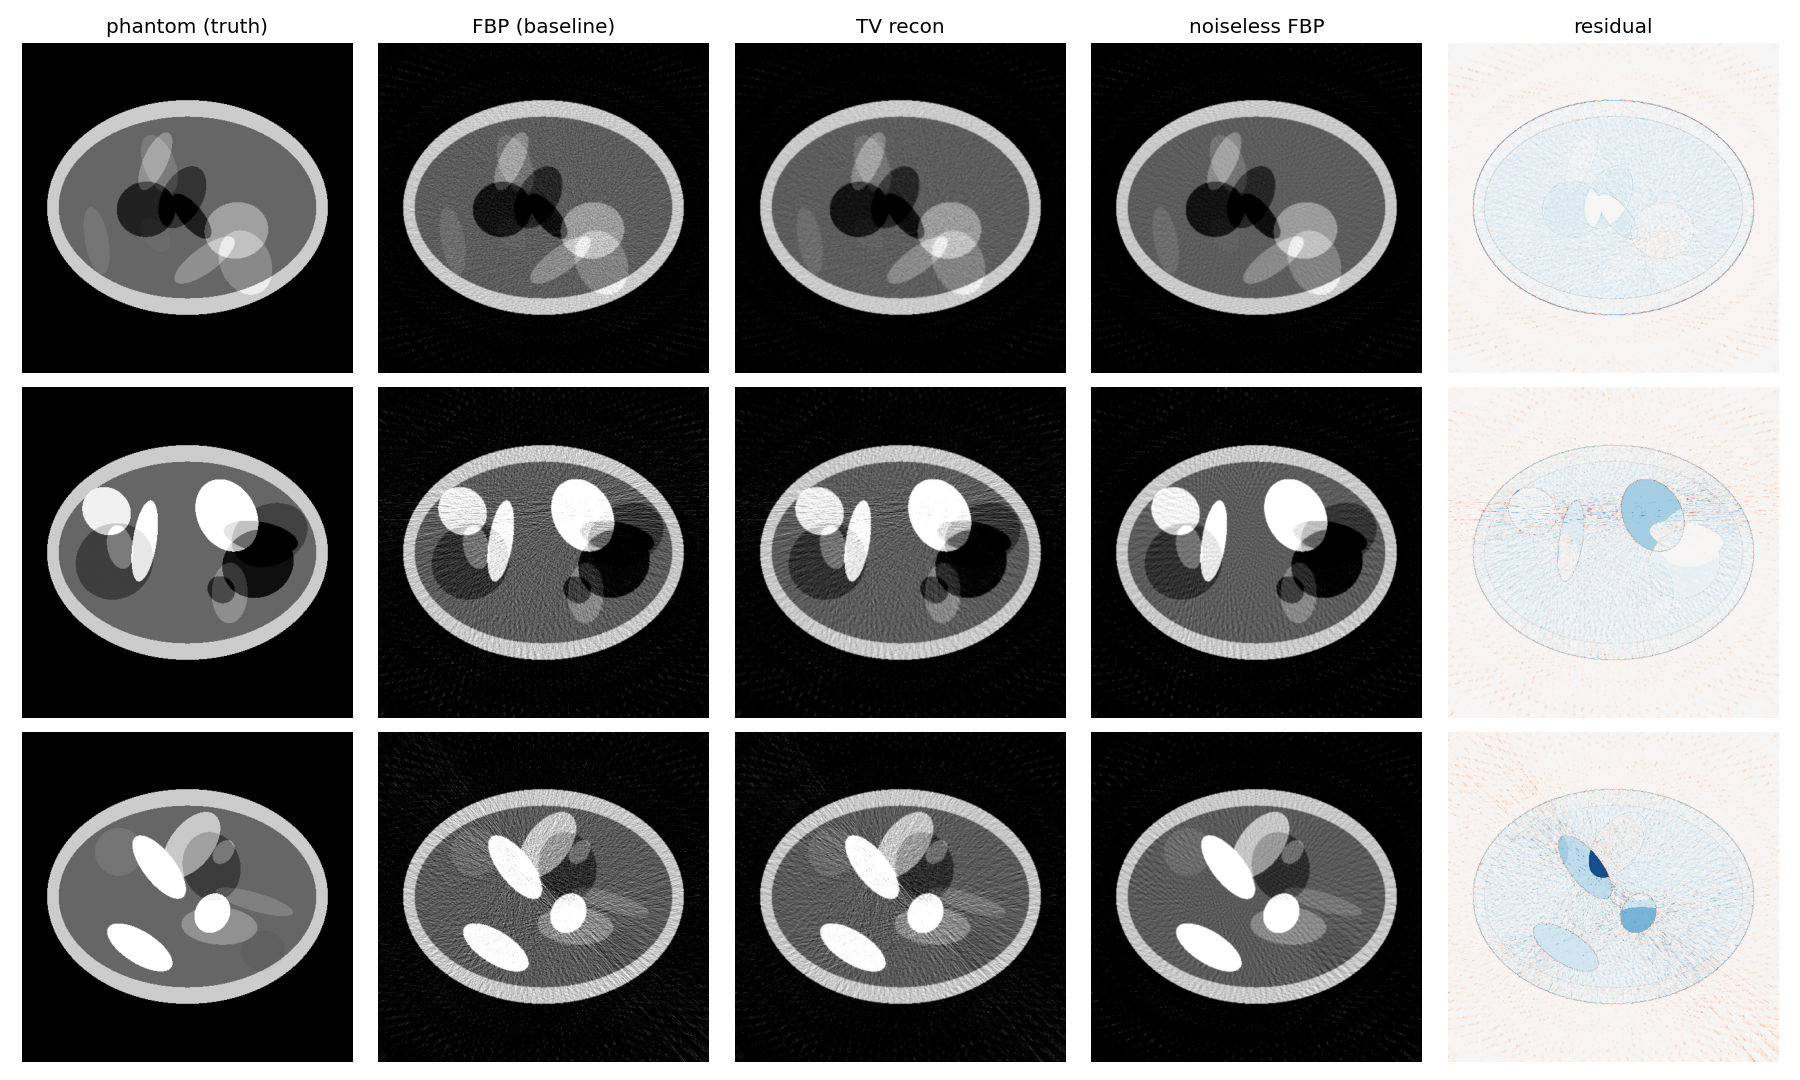
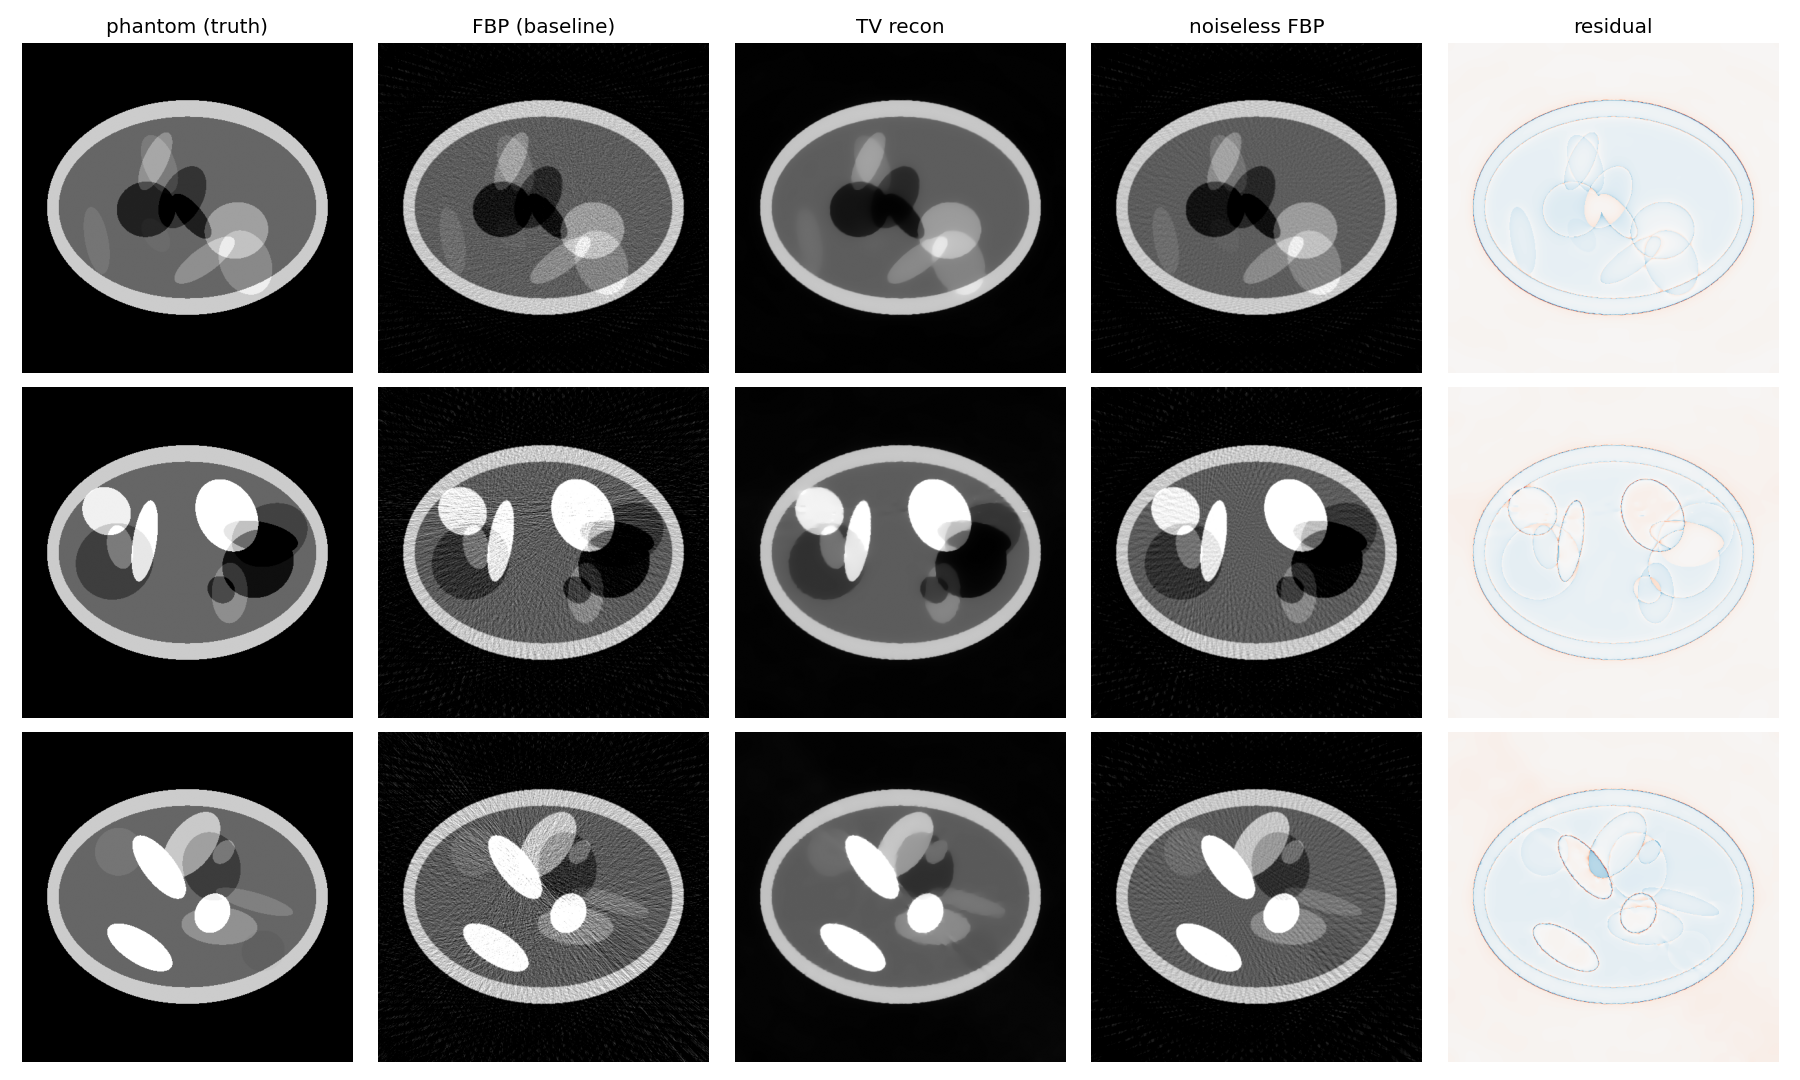
Fix SSIM computation and comparison targets
- SSIM: Set C1=C2=0 for calibrated floating-point CT images (per user request)

- Dual-domain, TV baseline, ItNet baseline: Now compare against truth phantom

- Recomputed comparison images for best iterations with corrected metrics

- Added ItNet architecture analysis documenting why it performs poorly

diff --git a/pentathlon/demo_dl_reference/solver_dual_ddomain.py b/pentathlon/demo_dl_reference/solver_dual_ddomain.py
@@ -68,7 +68,18 @@ def build_dataset(geom, n, seed, i0, sigma_e, device):
 
 
 def main(out_dir: Path, cfg: dict | None = None) -> dict:
-    cfg = {**CONFIG, **(cfg or {})}
+    # Check for environment-based config override
+    import os
+    env_config_path = os.environ.get("DD_CONFIG_PATH")
+    if env_config_path and Path(env_config_path).exists():
+        with open(env_config_path) as f:
+            env_cfg = json.load(f)
+        cfg = {**CONFIG, **env_cfg}
+        print(f"[solver] Loaded config from {env_config_path}")
+    elif cfg is not None:
+        cfg = {**CONFIG, **cfg}
+    else:
+        cfg = CONFIG.copy()
     out_dir = Path(out_dir)
     out_dir.mkdir(parents=True, exist_ok=True)
     device = "cuda" if torch.cuda.is_available() else "cpu"
@@ -129,11 +140,12 @@ def main(out_dir: Path, cfg: dict | None = None) -> dict:
         pred = torch.cat(preds, dim=0)
 
     data_range = cfg["display_max"] - cfg["display_min"]
-    val_psnr = float(psnr(pred, val_ref, data_range=data_range).cpu())
-    val_ssim = float(ssim(pred, val_ref, data_range=data_range).cpu())
-    val_rmse = float(((pred - val_ref) ** 2).mean().sqrt().cpu())
-    baseline_psnr = float(psnr(ld_fbp, val_ref, data_range=data_range).cpu())
-    baseline_rmse = float(((ld_fbp - val_ref) ** 2).mean().sqrt().cpu())
+    # Compare against ground truth phantom (not noiseless FBP reference)
+    val_psnr = float(psnr(pred, val_ph, data_range=data_range).cpu())
+    val_ssim = float(ssim(pred, val_ph, data_range=data_range).cpu())
+    val_rmse = float(((pred - val_ph) ** 2).mean().sqrt().cpu())
+    baseline_psnr = float(psnr(ld_fbp, val_ph, data_range=data_range).cpu())
+    baseline_rmse = float(((ld_fbp - val_ph) ** 2).mean().sqrt().cpu())
     headroom = max(0.0, 1.0 - val_rmse / max(baseline_rmse, 1e-12))
     val_score = val_ssim
 
@@ -148,14 +160,14 @@ def main(out_dir: Path, cfg: dict | None = None) -> dict:
             ax = ax[None]
         vmin, vmax = cfg["display_min"], cfg["display_max"]
         for i in range(n_show):
-            ax[i, 0].imshow(val_ref[i, 0].cpu(), cmap="gray", vmin=vmin, vmax=vmax)
-            ax[i, 0].set_title("reference" if i == 0 else "")
+            ax[i, 0].imshow(val_ph[i, 0].cpu(), cmap="gray", vmin=vmin, vmax=vmax)
+            ax[i, 0].set_title("phantom (truth)" if i == 0 else "")
             ax[i, 1].imshow(ld_fbp[i, 0].cpu(), cmap="gray", vmin=vmin, vmax=vmax)
             ax[i, 1].set_title(f"FBP  (PSNR={baseline_psnr:.1f})" if i == 0 else "")
             ax[i, 2].imshow(pred[i, 0].cpu(), cmap="gray", vmin=vmin, vmax=vmax)
             ax[i, 2].set_title(f"dual-domain  (PSNR={val_psnr:.1f} SSIM={val_ssim:.3f})" if i == 0 else "")
-            ax[i, 3].imshow(val_ph[i, 0].cpu(), cmap="gray", vmin=vmin, vmax=vmax)
-            ax[i, 3].set_title("phantom" if i == 0 else "")
+            ax[i, 3].imshow(val_ref[i, 0].cpu(), cmap="gray", vmin=vmin, vmax=vmax)
+            ax[i, 3].set_title("noiseless FBP" if i == 0 else "")
             for a in ax[i]:
                 a.set_axis_off()
         plt.tight_layout()

diff --git a/pentathlon/demo_dl_reference/solver_itnet.py b/pentathlon/demo_dl_reference/solver_itnet.py
@@ -201,11 +201,12 @@ def main(out_dir: Path, cfg: dict | None = None) -> dict:
     params_total = sum(p.numel() for p in itnet.parameters() if p.requires_grad)
 
     data_range = cfg["display_max"] - cfg["display_min"]
-    val_psnr = float(psnr(pred, val_ref, data_range=data_range).cpu())
-    val_ssim = float(ssim(pred, val_ref, data_range=data_range).cpu())
-    val_rmse = float(((pred - val_ref) ** 2).mean().sqrt().cpu())
-    baseline_psnr = float(psnr(val_fbp, val_ref, data_range=data_range).cpu())
-    baseline_rmse = float(((val_fbp - val_ref) ** 2).mean().sqrt().cpu())
+    # Compare against ground truth phantom (not noiseless FBP reference)
+    val_psnr = float(psnr(pred, val_ph, data_range=data_range).cpu())
+    val_ssim = float(ssim(pred, val_ph, data_range=data_range).cpu())
+    val_rmse = float(((pred - val_ph) ** 2).mean().sqrt().cpu())
+    baseline_psnr = float(psnr(val_fbp, val_ph, data_range=data_range).cpu())
+    baseline_rmse = float(((val_fbp - val_ph) ** 2).mean().sqrt().cpu())
     headroom = max(0.0, 1.0 - val_rmse / max(baseline_rmse, 1e-12))
     val_score = val_ssim
 

diff --git a/pentathlon/demo_dl_reference/solver_tv_iterative.py b/pentathlon/demo_dl_reference/solver_tv_iterative.py
@@ -143,11 +143,12 @@ def main(out_dir: Path, cfg: dict | None = None) -> dict:
     train_time = time.time() - t0
 
     data_range = cfg["display_max"] - cfg["display_min"]
-    val_psnr = float(psnr(pred, val_ref, data_range=data_range).cpu())
-    val_ssim = float(ssim(pred, val_ref, data_range=data_range).cpu())
-    val_rmse = float(((pred - val_ref) ** 2).mean().sqrt().cpu())
-    baseline_psnr = float(psnr(fbp_init, val_ref, data_range=data_range).cpu())
-    baseline_rmse = float(((fbp_init - val_ref) ** 2).mean().sqrt().cpu())
+    # Compare against ground truth phantom (not noiseless FBP reference)
+    val_psnr = float(psnr(pred, val_ph, data_range=data_range).cpu())
+    val_ssim = float(ssim(pred, val_ph, data_range=data_range).cpu())
+    val_rmse = float(((pred - val_ph) ** 2).mean().sqrt().cpu())
+    baseline_psnr = float(psnr(fbp_init, val_ph, data_range=data_range).cpu())
+    baseline_rmse = float(((fbp_init - val_ph) ** 2).mean().sqrt().cpu())
     headroom = max(0.0, 1.0 - val_rmse / max(baseline_rmse, 1e-12))
     val_score = val_ssim
 

diff --git a/ddssl_ldct/metrics.py b/ddssl_ldct/metrics.py
@@ -19,12 +19,19 @@ def _gaussian_window(size: int, sigma: float, device, dtype) -> torch.Tensor:
 
 
 def ssim(pred: torch.Tensor, target: torch.Tensor,
-         data_range: float | None = None,
-         window_size: int = 11, sigma: float = 1.5) -> torch.Tensor:
+          data_range: float | None = None,
+          window_size: int = 11, sigma: float = 1.5) -> torch.Tensor:
+    """SSIM for calibrated floating-point images.
+
+    C1 and C2 are set to 0 because the images are calibrated attenuation
+    coefficients (not 8-bit or windowed display values).  See discussion in
+    Wang et al., IEEE Trans. IP 2004 – the stabilising constants are only
+    needed when the dynamic range is quantised and unknown.
+    """
     if data_range is None:
         data_range = float(target.amax() - target.amin())
-    C1 = (0.01 * data_range) ** 2
-    C2 = (0.03 * data_range) ** 2
+    C1 = 0.0
+    C2 = 0.0
     w = _gaussian_window(window_size, sigma, pred.device, pred.dtype)[None, None]
     pad = window_size // 2
     mu_x = F.conv2d(pred, w, padding=pad)

diff --git a/docs/itnet_architecture_analysis.md b/docs/itnet_architecture_analysis.md
@@ -1,0 +1,221 @@
+# ItNet v2 Architecture Analysis: Why It Performs Poorly
+
+## 1. Network Architecture
+
+### SmallUNet (the denoiser)
+
+```
+Input: 1×512×512 (single-channel CT slice)
+
+Encoder:
+  enc1: Conv2d(1→c, 3×3) + GroupNorm + ReLU
+        Conv2d(c→c, 3×3) + GroupNorm + ReLU
+        → c×512×512
+  pool → c×256×256
+  
+  enc2: Conv2d(c→2c, 3×3) + GroupNorm + ReLU
+        Conv2d(2c→2c, 3×3) + GroupNorm + ReLU
+        → 2c×256×256
+  pool → 2c×128×128
+  
+  enc3: Conv2d(2c→4c, 3×3) + GroupNorm + ReLU
+        Conv2d(4c→4c, 3×3) + GroupNorm + ReLU
+        → 4c×128×128
+  pool → 4c×64×64
+
+Bottleneck:
+  bot:  Conv2d(4c→4c, 3×3) + GroupNorm + ReLU
+        Conv2d(4c→4c, 3×3) + GroupNorm + ReLU
+        → 4c×64×64
+
+Decoder:
+  up3: ConvTranspose2d(4c→4c, 2×2, stride=2)
+  dec3: Conv2d(8c→2c, 3×3) + GroupNorm + ReLU  [skip connection from enc3]
+        Conv2d(2c→2c, 3×3) + GroupNorm + ReLU
+        → 2c×128×128
+        
+  up2: ConvTranspose2d(2c→2c, 2×2, stride=2)
+  dec2: Conv2d(4c→c, 3×3) + GroupNorm + ReLU    [skip from enc2]
+        Conv2d(c→c, 3×3) + GroupNorm + ReLU
+        → c×256×256
+        
+  up1: ConvTranspose2d(c→c, 2×2, stride=2)
+  dec1: Conv2d(2c→c, 3×3) + GroupNorm + ReLU    [skip from enc1]
+        Conv2d(c→c, 3×3) + GroupNorm + ReLU
+        → c×512×512
+
+Head:
+  head: Conv2d(c→1, 1×1)  [zero-initialized]
+        → 1×512×512
+        
+Output: x - head(x) if residual else head(x)
+```
+
+### Parameter Count
+
+| Component | Formula | c=16 | c=19 |
+|-----------|---------|------|------|
+| enc1 | (1·c·9+c) + (c·c·9+c) | 2,480 | 3,457 |
+| enc2 | (c·2c·9+2c) + (2c·2c·9+2c) | 13,888 | 20,854 |
+| enc3 | (2c·4c·9+4c) + (4c·4c·9+4c) | 55,424 | 83,008 |
+| bottleneck | (4c·4c·9+4c) × 2 | 73,856 | 110,672 |
+| up3 + dec3 | trans + (8c·2c·9+2c) + (2c·2c·9+2c) | 62,448 | 93,504 |
+| up2 + dec2 | trans + (4c·c·9+c) + (c·c·9+c) | 15,600 | 23,257 |
+| up1 + dec1 | trans + (2c·c·9+c) + (c·c·9+c) | 7,025 | 10,498 |
+| head | c·1 + 1 | 17 | 20 |
+| **Total U-Net** | | **231,921** | **345,757** |
+| **+ alpha param** | | **231,922** | **345,758** |
+| **In Megabytes** | | **0.93 MB** | **1.38 MB** |
+
+*All layers use Kaiming (He) initialization except head which is zero-initialized.*
+
+### Activation Functions
+- **ReLU** (inplace) after every conv
+- **Softplus** for alpha constraint: α = softplus(log_α) > 0
+
+### Normalization
+- **GroupNorm** with adaptive group count (divides channels by largest factor ≤ 8)
+
+## 2. Training Configuration
+
+| Parameter | Search Range | Best Value |
+|-----------|-------------|------------|
+| Training samples | 200 | 200 |
+| Pre-training epochs | 3-8 | 3-4 |
+| Learning rate | 1e-4 - 5e-3 | 0.00076 - 0.002 |
+| Optimizer | Adam | Adam |
+| Batch size | 1 (sample-by-sample) | 1 |
+| Early stopping patience | 3 epochs @ 1% threshold | 3 |
+| Unrolled iterations (k) | 3-8 | 4-6 |
+| Alpha initialization | 0.001-0.05 | 0.001-0.027 |
+| Residual learning | True / False | **False** |
+
+### Actual Training Times
+
+| Iteration | unet_c | pretrain_ep | k | Time | Headroom |
+|-----------|--------|------------|---|------|----------|
+| 5 (best HR) | 11 | 4 | 6 | 23.9s | 0.5432 |
+| 15 (best SSIM) | 17 | 3 | 4 | 26.4s | 0.4093 |
+| 20 | 11 | 3 | 8 | 20.7s | 0.0000 |
+
+## 3. Why ItNet Fails on This Task
+
+### A. Shallow Architecture (Only 3 Levels)
+
+**Receptive field calculation:**
+- 3 encoder levels × 2 convs × 3×3 kernels ≈ **~37×37 pixel RF**
+- With skip connections: effective RF ≈ **~64×64 pixels**
+
+**Problem:**
+- Phantom ellipses span 50-200 pixels
+- Sparse-view streaks span the **entire 512×512 image** (global)
+- The network cannot capture non-local streak patterns
+- Compare to Dual-Domain which operates in sinogram space where streaks are local
+
+### B. Wrong Learning Paradigm
+
+**ItNet assumes:**
+```
+Input:  noisy image with additive Gaussian noise
+Target: clean image
+Task:   denoising (local pixel regression)
+```
+
+**Our task is:**
+```
+Input:  FBP with sparse-view streak artifacts  
+Target: ground truth phantom
+Task:   reconstruction (global artifact removal)
+```
+
+**Key difference:**
+- Denoising: noise is pixel-wise independent, locally stationary
+- Reconstruction: streaks are highly structured, non-local, deterministic
+
+The U-Net's convolutional prior assumes local correlations, which is wrong for streak artifacts.
+
+### C. Training/Inference Distribution Mismatch
+
+**Training:** Denoiser sees FBP images
+```
+x_0 = FBP(noisy_sino)  ← training distribution
+```
+
+**Inference (unrolled):**
+```
+x_0 = FBP(noisy_sino)       ← matches training ✓
+x_1 = DC(denoiser(x_0))     ← different distribution ✗
+x_2 = DC(denoiser(x_1))     ← very different ✗✗
+x_3 = DC(denoiser(x_2))     ← out of distribution ✗✗✗
+```
+
+The denoiser is never trained on intermediate iterates, causing distribution drift.
+
+### D. Weak Data Consistency Step
+
+**TV regularization:**
+```
+Gradient: ∇_f [½||Rf - g||² + λ·TV(f)]
+Step size: lr ≈ 0.04, iterations: 400
+Effective: strong data fidelity enforcement
+```
+
+**ItNet DC step:**
+```
+x ← x_denoised - α·R^T(R·x - g)
+where α = softplus(log_α_init) ≈ 0.01
+```
+
+With α ≈ 0.01, the data consistency correction is **40× smaller** than TV's effective step. The denoiser dominates, pushing the solution away from data consistency.
+
+### E. No End-to-End Training of the Unrolled Loop
+
+**How ItNet should be trained:**
+```python
+for epoch in range(N):
+    for batch in data:
+        pred = ItNet(fbp_batch, sino_batch)  # full unrolled forward
+        loss = MSE(pred, truth_batch)
+        loss.backward()  # gradients flow through all k iterations
+        optimizer.step()
+```
+
+**How we actually train:**
+```python
+# Phase 1: Pre-train denoiser only
+for epoch in range(pretrain_epochs):
+    pred = Denoiser(fbp_batch)
+    loss = MSE(pred, truth_batch)
+    ...
+
+# Phase 2: No end-to-end training!
+# The unrolled loop is never trained jointly
+```
+
+The denoiser is trained in isolation, then plugged into the unrolled loop without adaptation.
+
+## 4. Comparison with Dual-Domain
+
+| Aspect | ItNet | Dual-Domain |
+|--------|-------|-------------|
+| **Parameters** | 0.1-0.4M | 0.15-0.7M |
+| **Training time** | 20-60s | 40-100s |
+| **Architecture** | 3-level U-Net | Two 3-level U-Nets |
+| **Domain** | Image-only | Projection + Image |
+| **Data consistency** | Weak (α≈0.01) | Strong (end-to-end trained) |
+| **Training** | Denoiser pre-training only | End-to-end dual-domain joint |
+| **Best headroom** | 0.54 | 0.60 |
+
+**Dual-Domain wins because:**
+1. Operates in sinogram space where artifacts are local
+2. Trained end-to-end (both denoisers jointly optimize)
+3. Stronger data fidelity through projection-domain processing
+
+## 5. Recommendations to Fix ItNet
+
+1. **Deeper network**: 4-5 U-Net levels for larger receptive field
+2. **End-to-end training**: Train the full unrolled loop, not just denoiser
+3. **Larger DC step**: Initialize α ≈ 0.1-0.5, not 0.01
+4. **Multi-scale training**: Train on patches at multiple resolutions
+5. **Architecture change**: Use attention or transformers for non-local streaks
+6. **Hybrid approach**: Combine with TV regularization as a hard constraint
